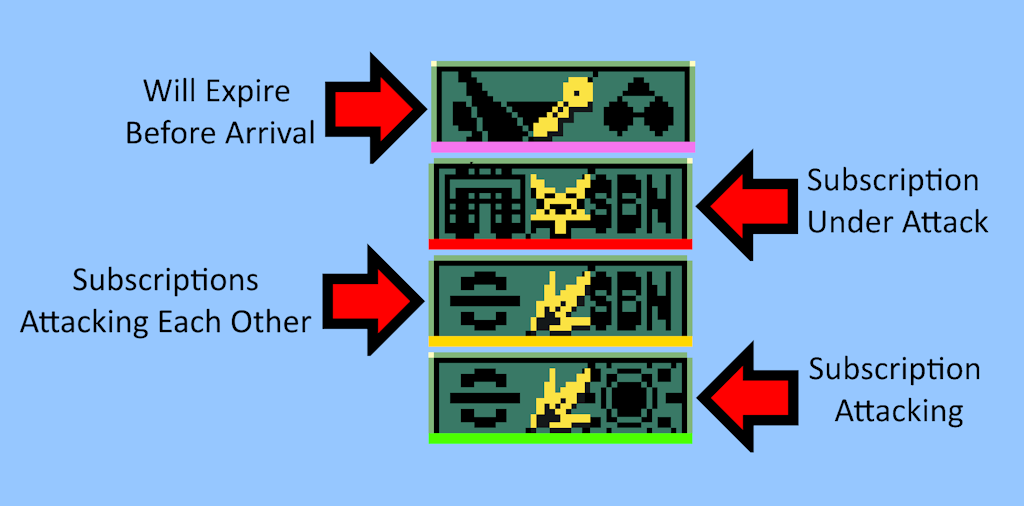
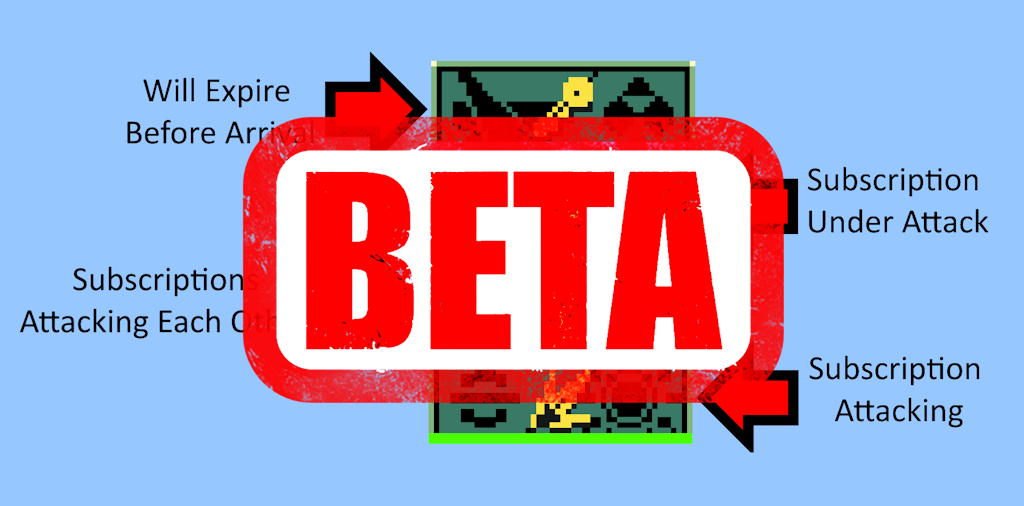
Compatible with the 0.8.6 opt in beta

Changed region(s): [[0.2188, 0.2075, 0.7812, 0.8004]]

diff --git a/src/FactionsScreen_Hide_Patch.cs b/src/FactionsScreen_Hide_Patch.cs
@@ -13,12 +13,12 @@ namespace QM_MissionExpirationHighlight
     /// <summary>
     /// When returning to the Space Hud when the Space Stations panel is recreated (was hidden)
     /// </summary>
-    [HarmonyPatch(typeof(FactionsScreen), nameof(FactionsScreen.Hide))]
+    [HarmonyPatch(typeof(FactionsScreen), nameof(FactionsScreen.HideAllWindows))]
     public static class FactionsScreen_Hide_Patch
     {
-        public static void Postfix()
+        public static void Postfix(FactionsScreen __instance)
         {
-            StationsRenderer.Modify(SingletonMonoBehaviour<SpaceUI>.Instance._spaceHudScreen.SpaceStationsWindow, null, null);
+            StationsRenderer.Modify(__instance._spaceStationsWindow, null, null);
         }
     }
 }

diff --git a/src/StationsRenderer.cs b/src/StationsRenderer.cs
@@ -38,7 +38,7 @@ namespace QM_MissionExpirationHighlight
 
             HashSet<string> subscriptions = new HashSet<string>(window._factions.SubscribedFactions);
 
-            foreach (SpaceStationPanel panel in SingletonMonoBehaviour<SpaceUI>.Instance.Hud.SpaceStationsWindow._panels)
+            foreach (SpaceStationPanel panel in window._panels)
             {
                 Image image = panel._visualWrapper.transform
                     .Find("Conflict Image")?.GetComponent<Image>();

diff --git a/src/StarmapScreen_Patch.cs b/src/StarmapScreen_Patch.cs
@@ -14,7 +14,7 @@ namespace QM_MissionExpirationHighlight
     {
         public static void Postfix(StarmapScreen __instance, StarmapSpaceObjectPanel obj)
         {
-            StationsRenderer.Modify(SingletonMonoBehaviour<SpaceUI>.Instance.Hud.SpaceStationsWindow, __instance._spaceObjects, obj.SpaceObjectId);
+            StationsRenderer.Modify(__instance._spaceStationsWindow, __instance._spaceObjects, obj.SpaceObjectId);
         }
     }
 }

diff --git a/src/FactionsScreen_OnFactionSubscribeStatusChanged_Patch.cs b/src/FactionsScreen_OnFactionSubscribeStatusChanged_Patch.cs
@@ -15,7 +15,7 @@ namespace QM_MissionExpirationHighlight
         public static void Postfix(FactionsScreen __instance)
         {
 
-            StationsRenderer.Modify(SingletonMonoBehaviour<SpaceUI>.Instance.Hud.SpaceStationsWindow);
+            StationsRenderer.Modify(__instance._spaceStationsWindow);
         }
     }
 }

diff --git a/src/SpaceHudScreen_ShowButtons_Patch.cs b/src/SpaceHudScreen_ShowButtons_Patch.cs
@@ -8,7 +8,7 @@ using System.Threading.Tasks;
 
 namespace QM_MissionExpirationHighlight
 {
-    [HarmonyPatch(typeof(SpaceHudScreen), nameof(SpaceHudScreen.ShowButtons))]
+    [HarmonyPatch(typeof(SpaceHudScreen), nameof(SpaceHudScreen.OnEnable))]
     public static class SpaceHudScreen_ShowButtons_Patch
     {
 

diff --git a/src/Properties/AssemblyInfo.cs b/src/Properties/AssemblyInfo.cs
@@ -32,4 +32,4 @@ using System.Runtime.InteropServices;
 // You can specify all the values or you can default the Build and Revision Numbers
 // by using the '*' as shown below:
 // [assembly: AssemblyVersion("1.0.*")]
-[assembly: AssemblyVersion("2.4.0")]
+[assembly: AssemblyVersion("2.5.0")]

diff --git a/src/StarmapScreen_Show_Patch.cs b/src/StarmapScreen_Show_Patch.cs
@@ -9,7 +9,7 @@ using UnityEngine;
 
 namespace QM_MissionExpirationHighlight
 {
-    [HarmonyPatch(typeof(StarmapScreen), nameof(StarmapScreen.Show))]
+    [HarmonyPatch(typeof(StarmapScreen), nameof(StarmapScreen.OnEnable))]
     public static partial class StarmapScreen_Show_Patch
     {
 

diff --git a/README.md b/README.md
@@ -3,6 +3,20 @@
 ![Color Key](media/thumbnail.png)
 ![Planet Mission Count](media/PlanetList.png)
 
+
+# Important - This version of the mod is only for the opt in beta version of the game!
+
+This is a temporary version that supports the 0.8.6 beta, and not the current game's version.
+For the non beta version of the game, use the mod of the same name without the BETA suffix.
+
+The non beta version *must* be uninstalled.  
+When the 0.8.6 becomes the main version, this mod will be deleted.
+Note that the beta is expected to change many times before release.
+As such, this mod may break on each beta release.
+
+# Docs
+
+
 Adds the following indicators:
 
 Adds a "X (Y)" number to the planet list where X is the non expiring missions and Y is the total number of missions.
@@ -32,6 +46,9 @@ Source code is available on GitHub https://github.com/NBKRedSpy/QM-MissionExpira
 
 # Change Log
 
+## 2.5.0 
+* Compatible with the 0.8.6 opt in beta 
+
 ## 2.4.0
 * Moved config file directory.
 
@@ -39,25 +56,3 @@ Source code is available on GitHub https://github.com/NBKRedSpy/QM-MissionExpira
 * Fixed Null Reference exception with the new image object in some cases.
 
 Thanks to Discord user Verro for reporting.
-
-## 2.3.0
-* Converted to colored bar at bottom of mission.
-
-## 2.2.1
-* Incorrect color Fix
-* Non primary colors are still difficult to see. 
-
-## 2.2.0
-* Preliminary support for .8 as the previous version crashes in .8.  Needs color fixes.
-
-## 2.1.0
-
-Fixes:
-* Factions subscriptions screen not updating on change.
-* Not updating when returning to the main hud.
-
-## 2.0.0
-Added faction subscription colors.
-Thanks to Steam user RafaelKB for the suggestion.
-
-
